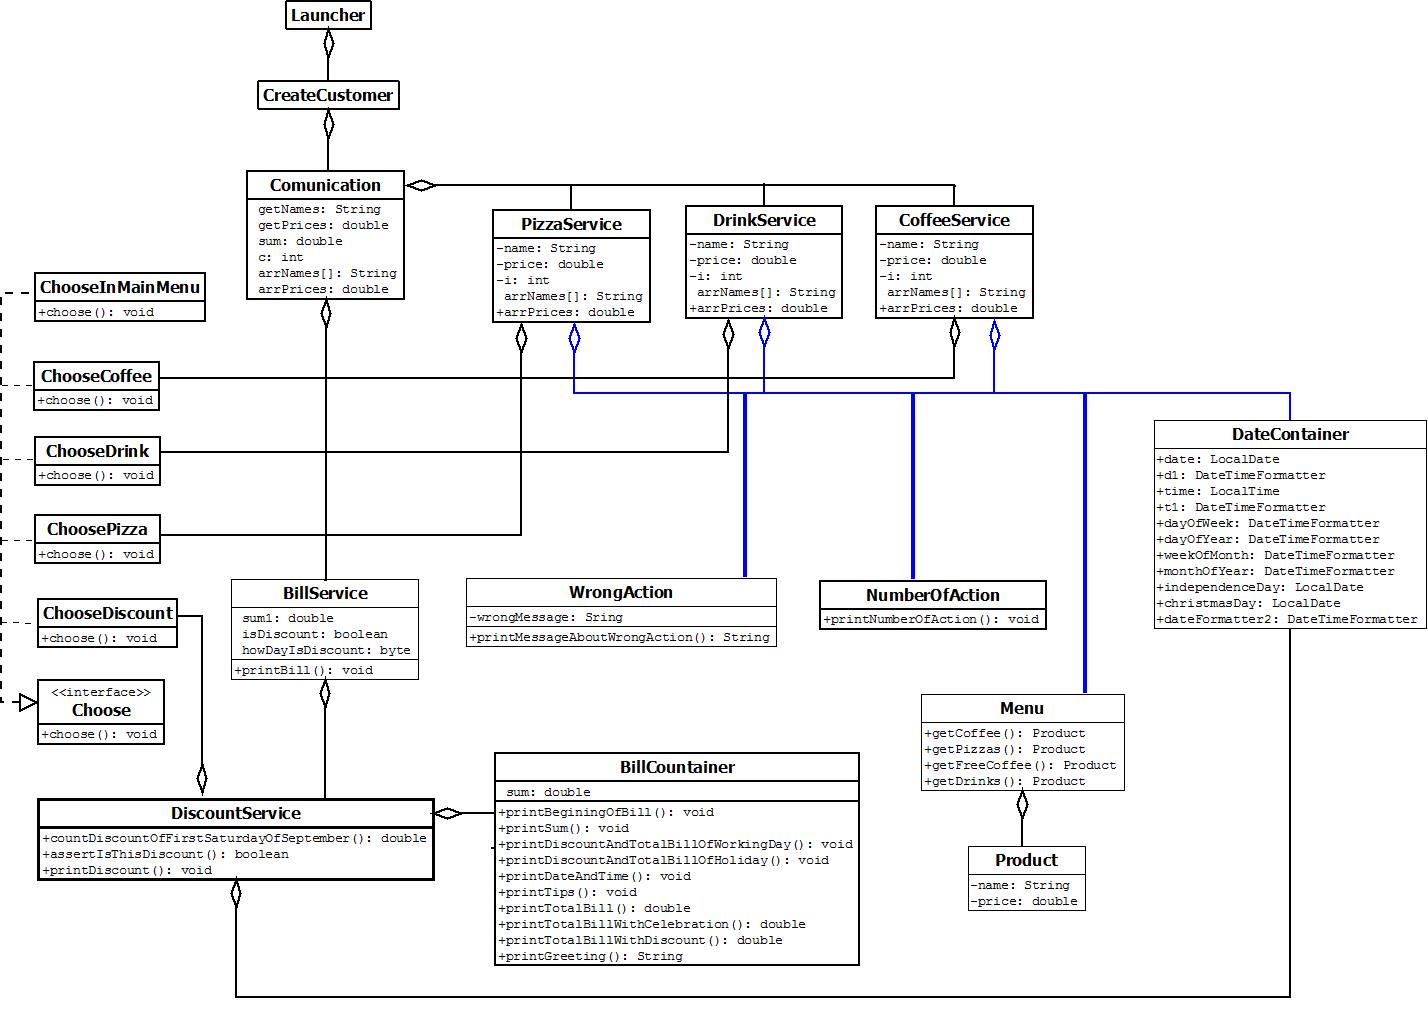
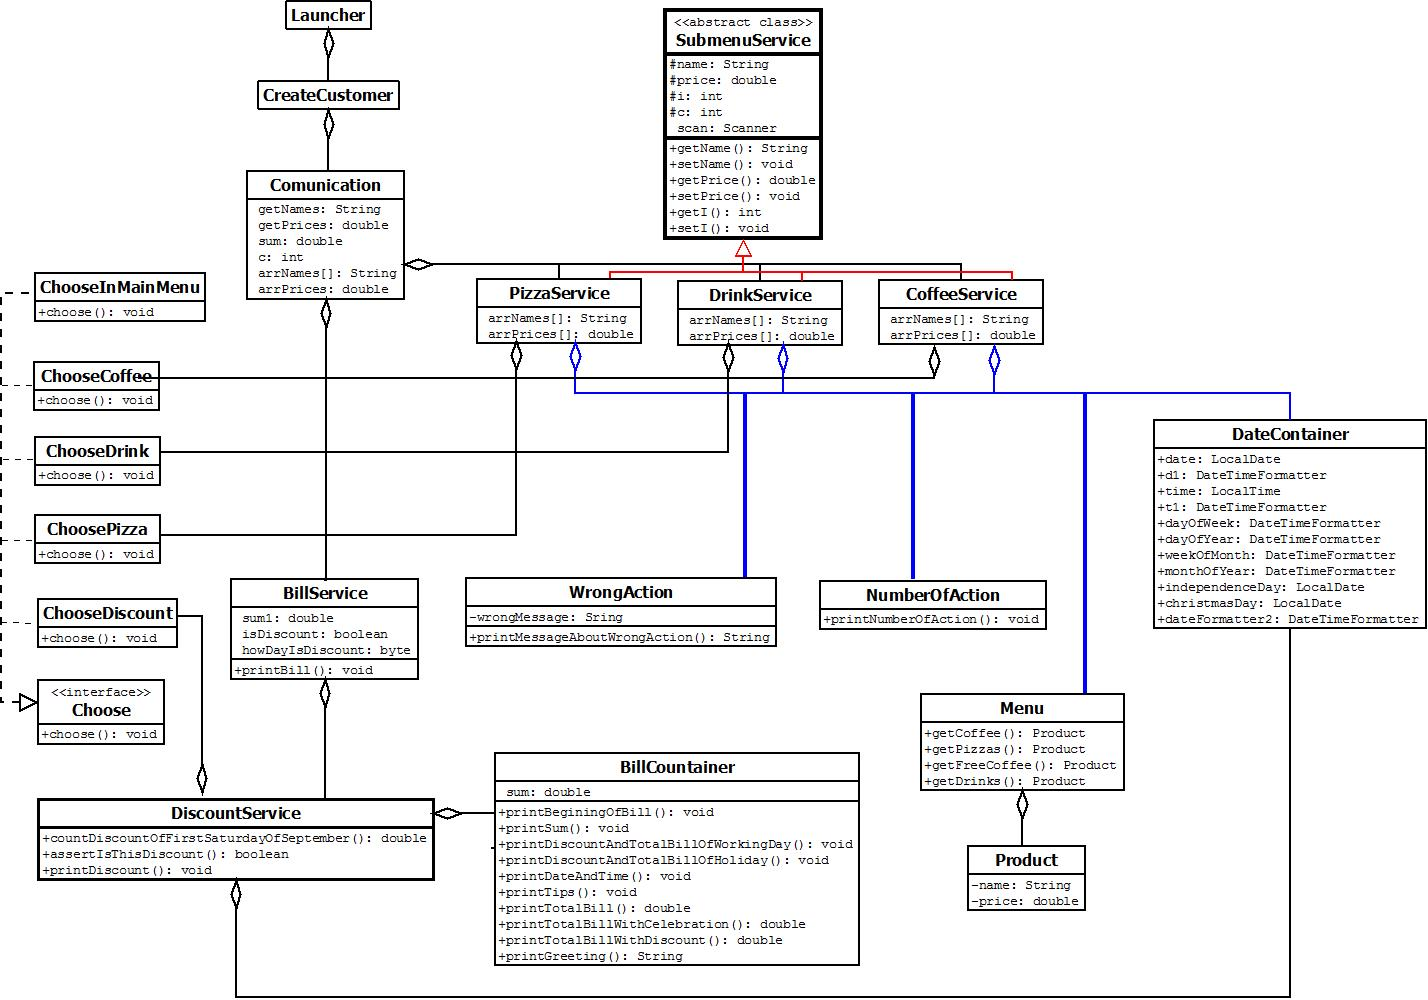
Abstract class SubmenuService was added

diff --git a/src/main/java/com/pizza/service/submenu_logic/PizzaService.java b/src/main/java/com/pizza/service/submenu_logic/PizzaService.java
@@ -5,46 +5,14 @@ import com.pizza.service.communication_with_user.NumberOfAction;
 import com.pizza.service.interface_of_menu.ChoosePizza;
 import com.pizza.service.messages.WrongAction;
 
-import java.util.Scanner;
-
 /**
  * Created by user on 07.03.2017.
  */
-public class PizzaService {
-
-    private String name;
-    private double price;
-    private int i;
-
-    public String getName() {
-        return name;
-    }
-
-    public void setName(String name) {
-        this.name = name;
-    }
-
-    public double getPrice() {
-        return price;
-    }
-
-    public void setPrice(double price) {
-        this.price= price;
-    }
-
-    public int getI() {
-        return i;
-    }
-
-    public void setI(int i) {
-        this.i = i;
-    }
-
-    Scanner scan = new Scanner(System.in);
+public class PizzaService extends SubmenuService {
 
     public PizzaService(int i){
 
-        //boolean c = true;
+        super(i);
         String [] arrNames = new String[1000];
         double [] arrPrices = new double[1000];
 
@@ -53,8 +21,8 @@ public class PizzaService {
             arrNames[j] = name;
             arrPrices[j] = price;
 
-            ChoosePizza choose = new ChoosePizza();    // Об'єкт для відображення
-            choose.choose();                           // вибору у підменю піцци
+            ChoosePizza choose = new ChoosePizza();    // Object for displaying
+            choose.choose();                           // a choice in the pizza's submenu
             int b = scan.nextInt();
 
             if (b == 1 | b == 2 | b == 3 | b == 4 | b == 5 | b == 6 | b == 7 | b == 8 | b == 9) {

diff --git a/src/main/java/com/pizza/service/submenu_logic/CoffeeService.java b/src/main/java/com/pizza/service/submenu_logic/CoffeeService.java
@@ -6,43 +6,14 @@ import com.pizza.service.date.DateContainer;
 import com.pizza.service.interface_of_menu.ChooseCoffee;
 import com.pizza.service.messages.WrongAction;
 
-import java.util.Scanner;
-
 /**
  * Created by user on 20.03.2017.
  */
-public class CoffeeService { private String name;
-    private double price;
-    private int i;
-
-    public String getName() {
-        return name;
-    }
-
-    public void setName(String name) {
-        this.name = name;
-    }
-
-    public double getPrice() {
-        return price;
-    }
-
-    public void setPrice(double price) {
-        this.price= price;
-    }
-
-    public int getI() {
-        return i;
-    }
-
-    public void setI(int i) {
-        this.i = i;
-    }
-
-    Scanner scan = new Scanner(System.in);
+public class CoffeeService extends SubmenuService {
 
     public CoffeeService(int i,int c){
 
+        super(i, c);
         String [] arrNames = new String[1000];
         double [] arrPrices = new double[1000];
 
@@ -51,8 +22,8 @@ public class CoffeeService { private String name;
             arrNames[j] = name;
             arrPrices[j] = price;
 
-            ChooseCoffee choose = new ChooseCoffee();    // Object for displaying
-            choose.choose();                           // a choice in the drink's submenu
+            ChooseCoffee choose = new ChooseCoffee();       // Object for displaying
+            choose.choose();                                // a choice in the coffee's submenu
             int b = scan.nextInt();
 
             DateContainer dateContainer = new DateContainer();

diff --git a/src/main/java/com/pizza/service/submenu_logic/DrinkService.java b/src/main/java/com/pizza/service/submenu_logic/DrinkService.java
@@ -5,44 +5,14 @@ import com.pizza.service.communication_with_user.NumberOfAction;
 import com.pizza.service.interface_of_menu.ChooseDrink;
 import com.pizza.service.messages.WrongAction;
 
-import java.util.Scanner;
-
 /**
  * Created by user on 08.03.2017.
  */
-public class DrinkService {
-    private String name;
-    private double price;
-    private int i;
-
-    public String getName() {
-        return name;
-    }
-
-    public void setName(String name) {
-        this.name = name;
-    }
-
-    public double getPrice() {
-        return price;
-    }
-
-    public void setPrice(double price) {
-        this.price= price;
-    }
-
-    public int getI() {
-        return i;
-    }
-
-    public void setI(int i) {
-        this.i = i;
-    }
-
-    Scanner scan = new Scanner(System.in);
+public class DrinkService extends SubmenuService {
 
     public DrinkService(int i){
 
+        super(i);
         String [] arrNames = new String[1000];
         double [] arrPrices = new double[1000];
 
@@ -52,7 +22,7 @@ public class DrinkService {
             arrPrices[j] = price;
 
             ChooseDrink choose = new ChooseDrink();    // Object for displaying
-            choose.choose();                           // a choice in the pizza's submenu
+            choose.choose();                           // a choice in the drink's submenu
             int b = scan.nextInt();
 
             if (b == 1 | b == 2 | b == 3 | b == 4 | b == 5 | b == 6 | b==7 ) {

diff --git a/src/main/java/com/pizza/service/submenu_logic/SubmenuService.java b/src/main/java/com/pizza/service/submenu_logic/SubmenuService.java
@@ -1,0 +1,49 @@
+package com.pizza.service.submenu_logic;
+
+import java.util.Scanner;
+
+/**
+ * Created by user on 28.08.2017.
+ */
+abstract class SubmenuService {
+
+    protected String name;
+    protected double price;
+    protected int i;
+    protected int c;
+
+    public String getName() {
+        return name;
+    }
+
+    public void setName(String name) {
+        this.name = name;
+    }
+
+    public double getPrice() {
+        return price;
+    }
+
+    public void setPrice(double price) {
+        this.price= price;
+    }
+
+    public int getI() {
+        return i;
+    }
+
+    public void setI(int i) {
+        this.i = i;
+    }
+
+    Scanner scan = new Scanner(System.in);
+
+    SubmenuService(int i){
+        this.i = i;
+    }
+
+    SubmenuService(int i, int c){
+        this.i = i;
+        this.c = c;
+    }
+}

diff --git a/src/main/java/com/pizza/service/communication_with_user/Communication.java b/src/main/java/com/pizza/service/communication_with_user/Communication.java
@@ -20,7 +20,7 @@ public class Communication {
         String getNames = "Begin";       // Additional variable, which helps to define name of the custom in the menu
         double getPrices = 0f;           // Additional variable, which helps to define price of the custom in the menu
         double sum = 0f;                 // Additional variable, which helps to define total value of the custom
-        int c = 0;
+        int c = 0;                       // Additional variable, which helps to define possibility buying a free coffee
 
         String [] arrNames = new String[1000];
         double [] arrPrices = new double[1000];

diff --git a/src/main/java/com/pizza/Launcher.java b/src/main/java/com/pizza/Launcher.java
@@ -9,6 +9,6 @@ import com.pizza.service.communication_with_user.CreateCustom;
 
 public class Launcher {
     public static void main(String[] args) {
-        CreateCustom cr = new CreateCustom();
+        new CreateCustom();
     }
 }
